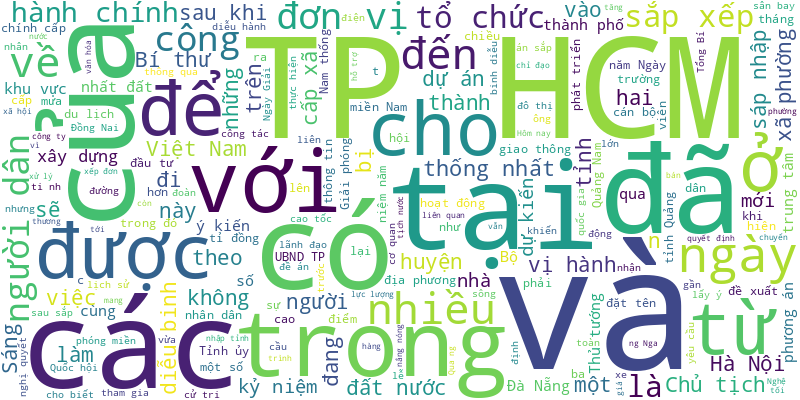
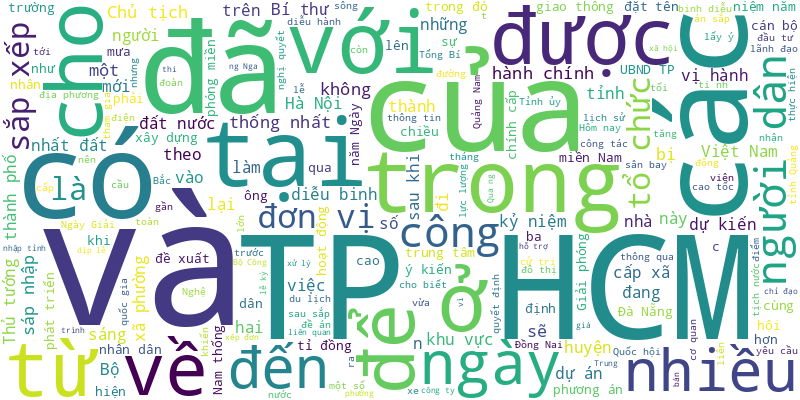
🍀 = 10%

diff --git a/README.md b/README.md
@@ -1,6 +1,8 @@
 # Tuoi Tre RSS 
 
 ## Giáo dục 
+- Cơ quan cảnh sát điều tra Công an TP.HCM đã ra quyết định khởi tố bị can, lệnh bắt tạm giam đối với bà Nguyễn Thị Út Em, chủ tịch hội đồng Trường quốc tế AISVN (huyện Nhà Bè, TP.HCM).
+- Cô giáo trong vụ việc bị phụ huynh đánh, túm tóc, bắt đứng giữa mưa ở Nghệ An cho hay cô đã nhận được lời xin lỗi từ gia đình phụ huynh.
 - Tới trường đón con nghi sau khi đã có uống rượu, phụ huynh hành hung, túm tóc cô giáo ở Nghệ An và bắt cô đứng giữa mưa.
 - Một nhóm học sinh khởi nghiệp khiến nhiều người bất ngờ khi đưa hạt K'nia, loại hạt đặc trưng của núi rừng Đắk Lắk, Tây Nguyên ra thị trường nhằm lan tỏa thông điệp bảo vệ rừng, phát triển cộng đồng.
 - Sau quá trình kiểm tra, Bộ Giáo dục và Đào tạo quyết định hủy kết quả đạt giải nhất và thu hồi giải thưởng, giấy chứng nhận đạt giải của dự án "Hệ thống phân loại rác thông minh tích hợp trí tuệ nhân tạo và cảm biến âm thanh".
@@ -1002,10 +1004,34 @@ Trường đại học Văn Lang được QS xếp hạng top 51-100 thế giớ
 - Năm 2025, Trường đại học Luật Hà Nội dự kiến tăng khoảng 150 chỉ tiêu, mở 2 chương trình mới là luật chất lượng cao và luật kinh tế chất lượng cao.
 - Thông qua các trò chơi, gần 1.000 học sinh tiểu học thuộc 6 quận, huyện ở TP.HCM đã có buổi giao lưu thú vị về Tết cổ truyền của dân tộc.
 - Nhân dịp kỷ niệm 30 năm thành lập (26-4-1995 - 26-4-2025), Trường đại học Công nghệ TP.HCM (HUTECH) công bố chính sách học bổng đặc biệt.
-- Ký túc xá mới tại cơ sở 3 Trường đại học Luật TP.HCM được xây dựng với các phòng như một căn hộ thu nhỏ, có thể cho 4-6 sinh viên ở chung, có trang bị bếp, chỗ để máy giặt, máy lạnh…
-- 805 sinh viên ngành sư phạm Trường đại học Sài Gòn được chi trả sinh hoạt phí theo quy định. Trong đó có 498 sinh viên nhận hơn 127 triệu đồng/người.
 ![Edu](Edu.png)
 ## Thời Sự 
+- Hôm nay 2-5, thời tiết Nam Bộ và các tỉnh Nam Trung Bộ giảm nắng, nhiều nơi mưa rào đến mưa to. Bắc Bộ giảm mưa, ngày nắng.
+- Sau khi hoàn thành xuất sắc nhiệm vụ, các khối diễu binh, diễu hành đầu tiên đã lên tàu trở ra miền Trung, miền Bắc trong niềm hân hoan của đông đảo người dân.
+- Chiều 1-5, tại vùng biển huyện Mộ Đức, Quảng Ngãi xảy ra liên tiếp 2 vụ đuối nước khiến 4 học sinh mất tích, lực lượng chức năng đang tích cực tìm kiếm.
+- Ban Chỉ đạo Trung ương về hoàn thiện thể chế, pháp luật do Tổng Bí thư Tô Lâm làm trưởng ban. Hai phó ban là Thủ tướng Phạm Minh Chính và Chủ tịch Quốc hội Trần Thanh Mẫn.
+- Lễ kỷ niệm 50 năm Ngày Giải phóng miền Nam, thống nhất đất nước (30-4-1975 - 30-4-2025) đã được tổ chức trọng thể và thành công tốt đẹp tại TP.HCM.
+- Du khách đến Phú Quốc chơi lễ 30-4 và 1-5 không chỉ tắm biển, ăn hải sản mà còn mê thích trải nghiệm du lịch sinh thái, coi đua heo, đánh golf và bắt vịt trên biển.
+- Ông Đặng Ngọc Dũng, nguyên ủy viên Ban Thường vụ Tỉnh ủy, nguyên trưởng Ban Tuyên giáo Tỉnh ủy Quảng Ngãi, nghỉ hưu trước tuổi 54 tháng.
+- Dịp lễ Ngày Giải phóng miền Nam, thống nhất đất nước và Ngày Quốc tế lao động năm nay có 98 phạm nhân ở các trại tạm giam và trại giam trong tỉnh Cà Mau được đặc xá về nhà.
+- Tổng thống Sri Lanka Anura Kumara Dissanayaka sẽ thăm cấp nhà nước Việt Nam và dự Đại lễ Phật đản Liên hợp quốc Vesak từ ngày 4 đến 6-5 tới.
+- Theo dõi lễ diễu binh sáng 30-4, nhiều người bày tỏ sự xúc động khi được nhìn thấy những khí tài do chính Việt Nam sản xuất.
+- 30 nhà khoa học của Nga và Việt Nam phối hợp khảo sát đa dạng sinh học và hóa sinh trên Biển Đông trên tàu Viện sĩ Oparin nổi tiếng.
+- Dự thảo sửa Luật Xử lý vi phạm hành chính đề xuất tăng mức phạt tiền tối đa lĩnh vực vi phạm giao thông đường bộ từ 75 triệu đồng lên 150 triệu đồng.
+- Các trường hợp cán bộ có đơn tự nguyện xin nghỉ việc phải thực hiện đánh giá, rà soát theo tiêu chí xác định đối tượng nghỉ theo quy định nghị định 178, 67.
+- Lễ công bố đặc xá cho 58 phạm nhân tại Trại giam Kênh 7 là dịp để những người này tái hòa nhập cộng đồng. Những cái ôm và giọt nước mắt đã tạo nên không khí ấm áp và tràn đầy tình cảm.
+- Sau cơn mưa buổi sáng, chiều 1-5 các tuyến đường ở Hà Nội vắng vẻ. Các cửa ngõ, trục vành đai là điểm nóng ùn tắc nay cũng thưa thớt xe cộ.
+- Cùng Tuổi Trẻ Online nhìn lại những hình ảnh đẹp trong dịp đại lễ 30-4 tại TP.HCM những ngày qua.
+- Cô giáo trong vụ việc bị phụ huynh đánh, túm tóc, bắt đứng giữa mưa ở Nghệ An cho hay cô đã nhận được lời xin lỗi từ gia đình phụ huynh.
+- Ghi nhận của Tuổi Trẻ Online cho thấy một số hồ đẹp ở quận Hoàng Mai và quận Nam Từ Liêm (Hà Nội) lại tiếp tục bị san lấp, quây tôn.
+- Ngày 1-5, Trại giam Thủ Đức - Z30D ở huyện Hàm Tân, tỉnh Bình Thuận công bố quyết định đặc xá của Chủ tịch nước cho 276 phạm nhân.
+- Ngày 1-5, lãnh đạo UBND phường Phước Long (Nha Trang) cho biết người dân vừa phát hiện 3 thi thể tại một ngôi nhà ở phường này.
+- Một vụ việc gây bàng hoàng xảy ra tại TP Hà Tiên rạng sáng nay. Một du khách bất ngờ nhảy xuống sông Đông Hồ, bỏ lại vợ và con thơ. Chính quyền đã huy động nhiều lực lượng tìm kiếm suốt 6 tiếng đồng hồ vẫn chưa tìm thấy.
+- Sáng 1-5, trại giam Xuân Lộc (Bộ Công an) tổ chức lễ công bố quyết định đặc xá của Chủ tịch nước cho các phạm nhân đang chấp hành án nơi đây.
+- Ngày 1-5, tại Khánh Hòa, Trại giam A2 công bố quyết định đặc xá năm 2025 của Chủ tịch nước cho 69 phạm nhân đang chấp hành án ở đây.
+- Trong dịp lễ, hàng trăm công nhân, kỹ sư vẫn làm việc tại dự án nâng cấp mặt đường tuyến Lộ Tẻ - Rạch Sỏi (Cần Thơ  - Kiên Giang).
+- Quảng Trị đề xuất điều chỉnh giờ tàu Bắc - Nam tại 2 ga Đông Hà và Đồng Hới, đáp ứng nhu cầu đi lại gần 1.300 công chức sau sáp nhập tỉnh.
+- Cơ quan chức năng tại Đà Nẵng vừa có phản hồi người dân về dự án bến du thuyền bên sông Hàn liên quan Vũ ‘nhôm’.
 - Cầu Văn Lang bắc qua sông Hồng nối huyện Ba Vì (Hà Nội) với TP Việt Trì (Phú Thọ) đã bị trơ móng, lòi cọc từ tháng 1-2025 đến nay.
 - TP.HCM sẽ không trình diễn 10.500 drone vào tối nay (ngày 1-5) như kế hoạch đã thông tin trước đó.
 - Hôm nay 1-5, thời tiết Bắc Bộ mưa rào đến mưa to, Nam Bộ ngày nắng nhưng về chiều tối mưa dông vài nơi.
@@ -1980,32 +2006,6 @@ Trường đại học Văn Lang được QS xếp hạng top 51-100 thế giớ
 - Theo đề án sắp xếp đơn vị hành chính cấp xã của tỉnh Quảng Ngãi năm 2025 được biểu quyết thông qua, tỉnh Quảng Ngãi tổ chức lại huyện đảo Lý Sơn thành đơn vị hành chính cấp xã có tên gọi là đặc khu Lý Sơn.
 - Đề xuất thí điểm viện kiểm sát nhân dân khởi kiện vụ án dân sự để bảo vệ quyền dân sự của các chủ thể là nhóm dễ bị tổn thương, hoặc bảo vệ lợi ích công.
 - Đại tướng Phan Văn Giang và Thượng tướng Đổng Quân đã thăm cửa khẩu Hữu Nghị Quan, Đại đội Biên phòng, mô hình cửa khẩu thông minh, thôn kiểu mẫu Chu Liên và trường tiểu học tại khu tự trị dân tộc Choang Quảng Tây, Trung Quốc.
-- Một số dự án xây dựng cơ sở vật chất tại các trường đại học gặp nhiều khó khăn trong việc triển khai do vướng nhiều thủ tục.
-- Đập Sabo đầu tiên tại Việt Nam được thiết kế theo tiêu chuẩn Nhật Bản giúp giảm lũ ống, lũ quét vừa được khánh thành tại Sơn La.
-- Tuổi Trẻ Online trân trọng đăng toàn văn bài phát biểu chỉ đạo của Tổng Bí thư Tô Lâm tại Hội nghị toàn quốc quán triệt, triển khai thực hiện Nghị quyết Hội nghị lần thứ 11 Ban Chấp hành Trung ương Đảng khóa XIII.
-- Theo kế hoạch, Long An sẽ lấy ý kiến về sắp xếp địa phương 2 cấp từ nay đến ngày 21-4, để thông qua HĐND cấp xã dự kiến trước ngày 24-4.
-- Sở Nội vụ tỉnh Đồng Nai vừa nhắc nhở nhiều đơn vị, địa phương trên địa bàn tỉnh khẩn trương cung cấp số liệu để làm đề án sắp xếp, sáp nhập các đơn vị hành chính.
-- Nhiều tỉnh ở miền Tây đều có huyện Châu Thành, riêng tỉnh Hậu Giang có 2 huyện mang tên địa danh này. Sau khi bỏ cấp huyện, địa danh Châu Thành có còn được giữ lại?
-- Sở Xây dựng Hà Nội vừa ký quyết định số 3725 về việc bố trí các địa điểm cho 5 đơn vị di dời phục vụ phương án quy hoạch, cải tạo không gian khu vực phía đông hồ Hoàn Kiếm.
-- Sở Văn hóa, Thể thao và Du lịch tỉnh Quảng Ninh sẽ làm việc với các đơn vị liên quan vụ người đàn ông lao xuống biển khi đang chơi pickleball trên boong tàu du lịch.
-- Tuyến Lộ Tẻ - Rạch Sỏi là đường huyết mạch về tỉnh Kiên Giang đang được thi công nâng cấp giai đoạn 2. Thế nhưng nhiều người phản ánh thi công ì ạch.
-- Liên hệ không được, Sở Nội vụ Quảng Nam phải cử người vào tận TP.HCM gặp chủ doanh nghiệp may mặc để đòi quyền lợi cho công nhân.
-- Ông Lê Minh Hưng cho hay sau khi sáp nhập, tỉnh mới có thể nghiên cứu quy hoạch, lựa chọn xây dựng các trung tâm chính trị - hành chính mới phù hợp.
-- UBND tỉnh Vĩnh Long sắp trình Ban Chấp hành tỉnh thông qua đề án sắp xếp 102 xã phường xuống 35, và dự kiến không còn ký hiệu phường bằng số.
-- Vietjet chính thức khai thác các chuyến bay TP.HCM, Hà Nội - Côn Đảo từ ngày 19-4, đồng thời ra mắt dịch vụ giỏ lễ xanh phục vụ du khách hành hương.
-- Bí thư Nguyễn Văn Nên làm trưởng Ban Chỉ đạo thực hiện sắp xếp, tổ chức lại đơn vị hành chính các cấp và xây dựng mô hình tổ chức chính quyền địa phương 2 cấp.
-- Bí thư Tỉnh ủy Quảng Ngãi giao Sở Giáo dục tính toán điều kiện học hành cho con em của cán bộ theo cha mẹ từ Kon Tum xuống Quảng Ngãi sau sáp nhập.
-- Thành phố Đà Nẵng mới sau khi sáp nhập tỉnh Quảng Nam với thành phố Đà Nẵng hiện nay có 3 di sản thế giới được UNESCO công nhận.
-- Những ngày biển lặng, người dân làng chài Mân Thái (quận Sơn Trà, TP Đà Nẵng) í ới gọi nhau kéo lưới rùng.
-- 50 anh hùng lực lượng vũ trang nhân dân, Bà mẹ Việt Nam anh hùng, cựu chiến binh vừa có buổi gặp mặt tại Hội trường Thống Nhất (TP.HCM) sáng 16-4.
-- Chỉ cần cung cấp vài thông tin cơ bản, một số cá nhân khẳng định có thể làm luôn cho khách hàng chứng chỉ hành nghề khám, chữa bệnh "giả" với đủ phạm vi hoạt động.
-- Tổng Bí thư Tô Lâm lưu ý khi thực hiện sáp nhập cần vượt qua những tâm lý, tâm trạng vùng miền để hướng tới tư duy, tầm nhìn rộng lớn hơn đất nước là quê hương.
-- Công an phường Điện Minh, thị xã Điện Bàn, Quảng Nam cho hay vừa giúp một người dân ở tỉnh Đắk Lắk nhận lại số tiền 410 triệu đồng do sơ ý chuyển nhầm.
-- 70km cao tốc Vân Phong - Nha Trang trên tuyến cao tốc Bắc - Nam phía đông sẽ đưa vào khai thác sử dụng vào ngày 19-4.
-- Sáng 16-4, UBND xã Gio An (huyện Gio Linh, tỉnh Quảng Trị) tổ chức lễ động thổ, đặt viên đá đầu tiên xây dựng đền thờ chúa tiên Nguyễn Hoàng tại thôn An Nha.
-- Các đại biểu thống nhất thông qua đề án sắp xếp đơn vị hành chính cấp xã của tỉnh Quảng Ngãi năm 2025, sau sắp xếp Quảng Ngãi giảm 67,65% số xã.
-- Chủ tịch UBND TP Biên Hòa (Đồng Nai) cho hay đang thương thảo hợp đồng với đơn vị xử lý rác, không để xảy ra tình trạng ngưng trệ việc thu gom rác.
-- Dự báo đợt nắng nóng diện rộng đầu tiên trong năm 2025 sẽ kéo dài tới khoảng ngày 22-4, riêng Nam Bộ sẽ kéo dài hơn.
 ![New](News.png)
 ## Nhịp sống số 
 - Tham vọng chinh phục thế giới robot hình người của Hãng xe điện Tesla (Mỹ) đang gặp trở ngại lớn, do chính sách xuất khẩu mới nhất của Trung Quốc.
